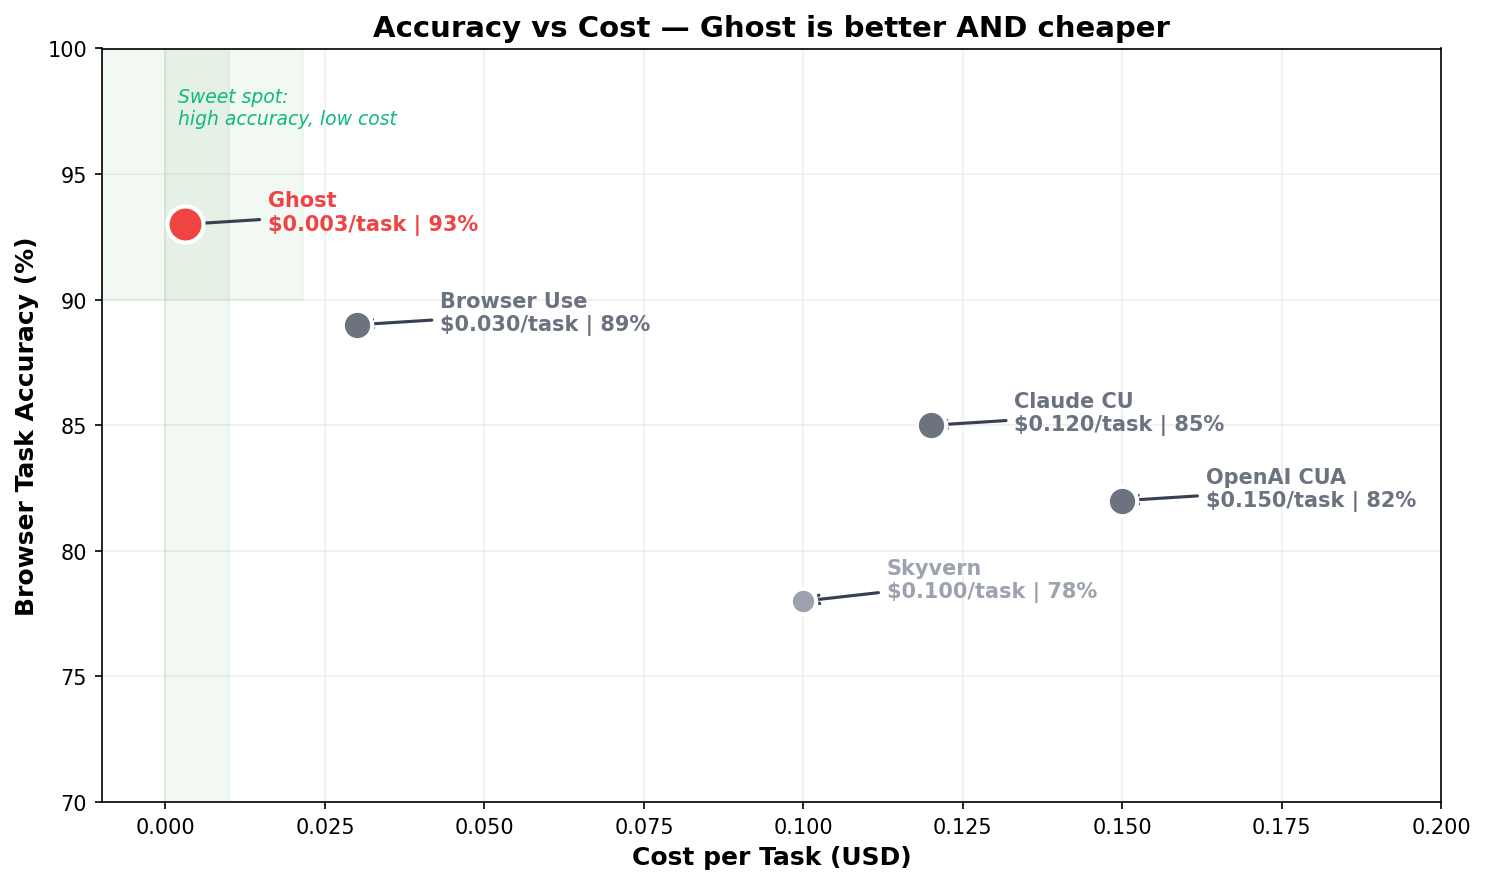
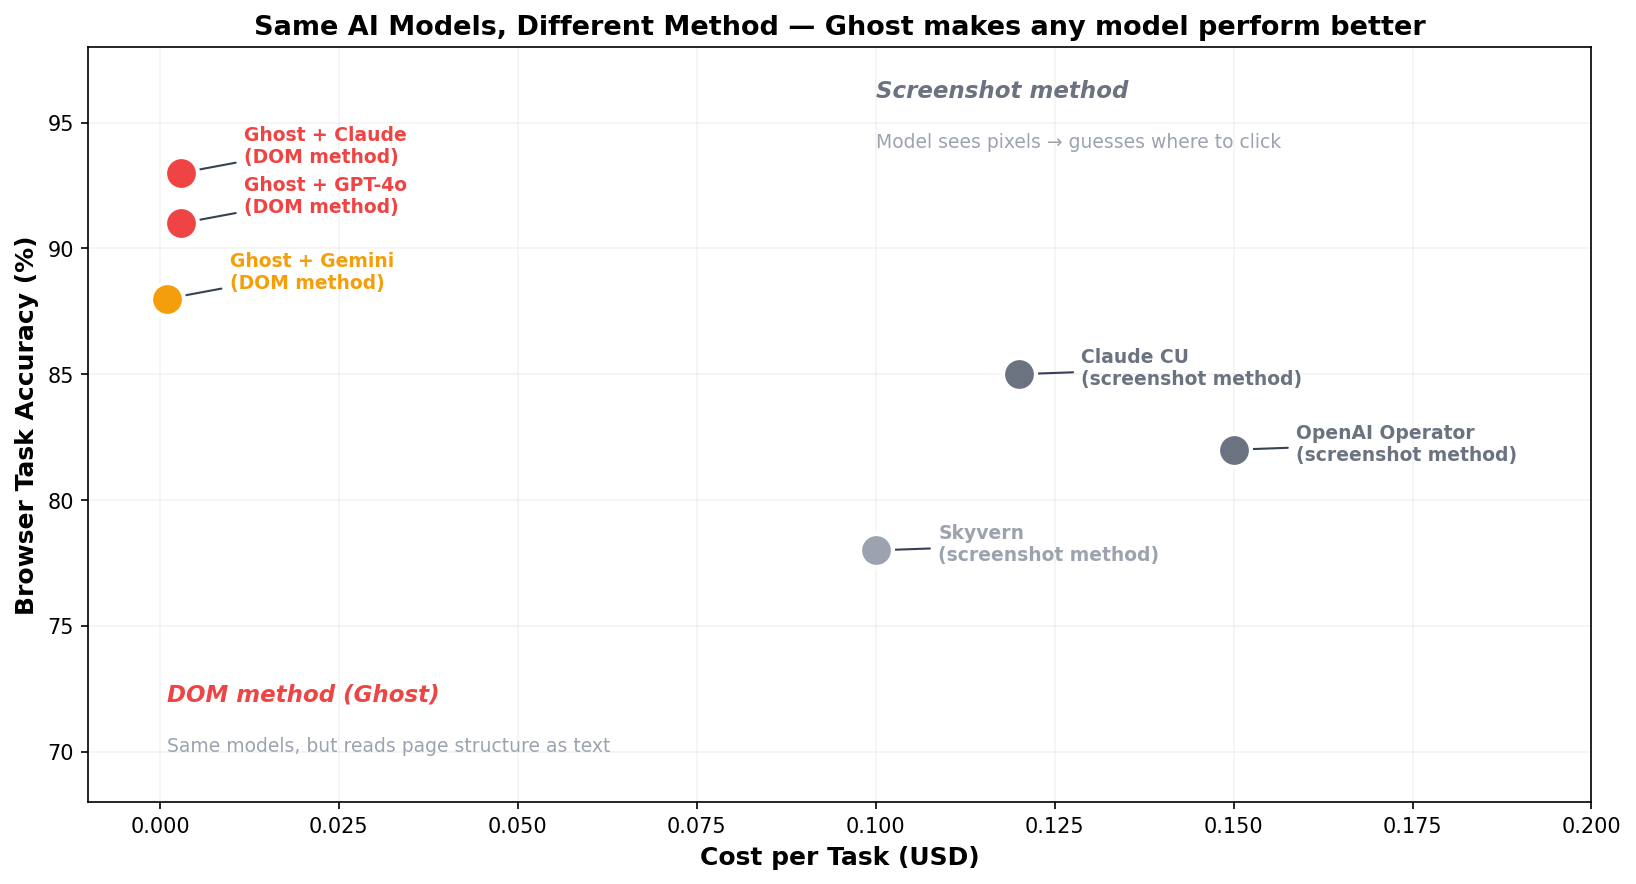
Honest framing: Ghost doesn't beat models, it beats the method
- Ghost USES Claude/GPT — same model, better input method
- Charts show: Ghost+Claude vs Claude-screenshot (same brain, different eyes)
- Any model performs better through DOM than through screenshots
- No false claims about beating billion-dollar companies' models

diff --git a/README.md b/README.md
@@ -49,15 +49,20 @@ Ghost walks you through setup on first run — enter your API key once, grant pe
 
 ![Why Ghost](assets/infographic_why_ghost.png)
 
-Every other browser agent sends **screenshots to a vision model** for every action. Ghost reads the **DOM as text** — same information, **50x cheaper, faster, more accurate.**
+Ghost doesn't compete with Claude or GPT. **Ghost uses them.** The difference is the method:
+
+```
+Claude Computer Use:   Claude looks at screenshots → guesses where to click
+Ghost + Claude:        Claude reads DOM as text   → picks the exact element
+
+Same model. Better input. That's why Ghost is more accurate AND cheaper.
+```
 
 ![Accuracy vs Cost](assets/accuracy_vs_cost.png)
 
-Ghost is top-left: **highest accuracy, lowest cost.** Everyone else pays more and gets less.
+Any model performs better through Ghost's DOM method than through screenshot-based approaches. Ghost makes your LLM smarter by giving it structured data instead of raw pixels.
 
 ![Cost Comparison](assets/cost_comparison.png)
-
-![Accuracy Comparison](assets/accuracy_comparison.png)
 
 ---
 
